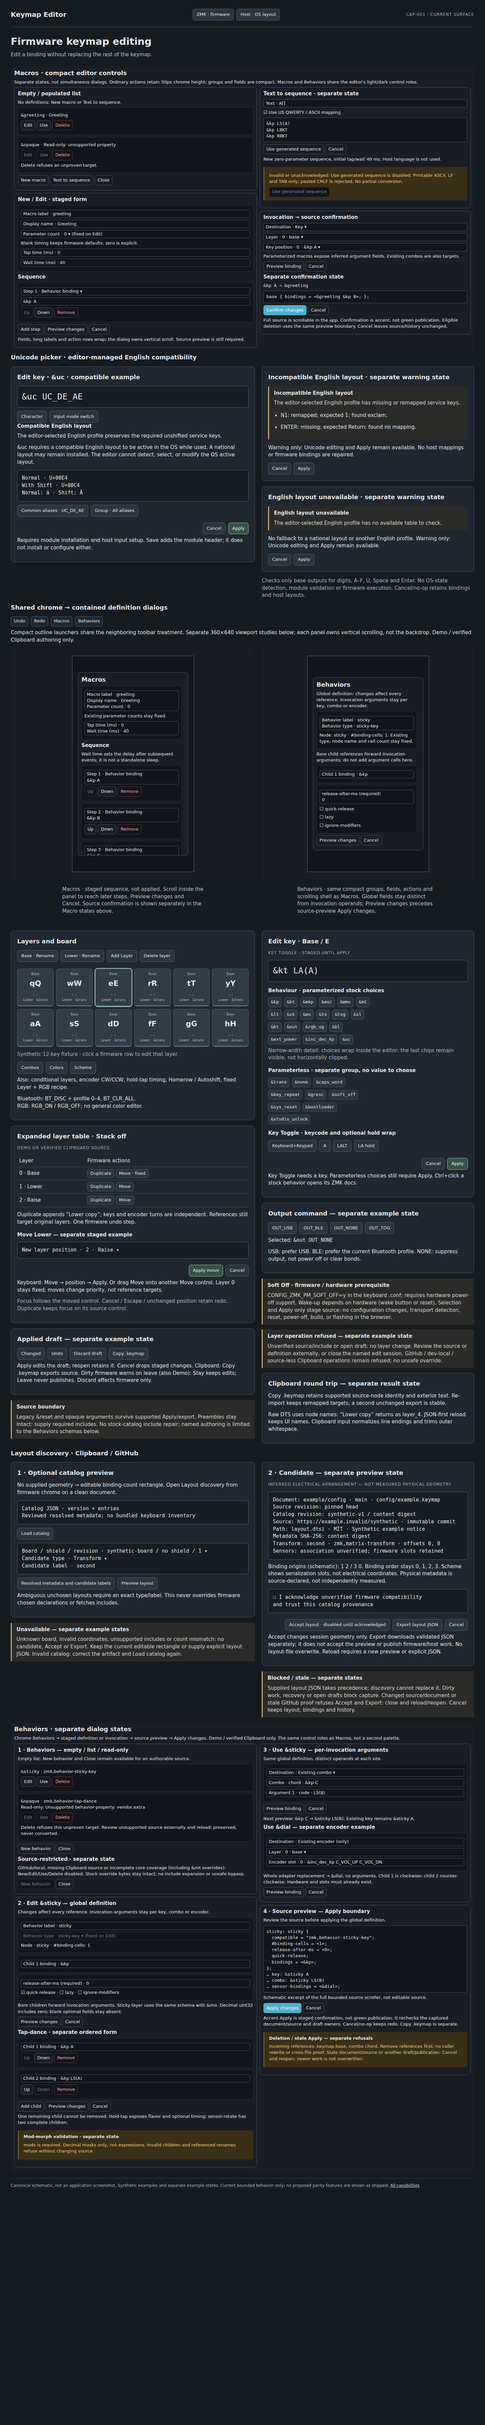
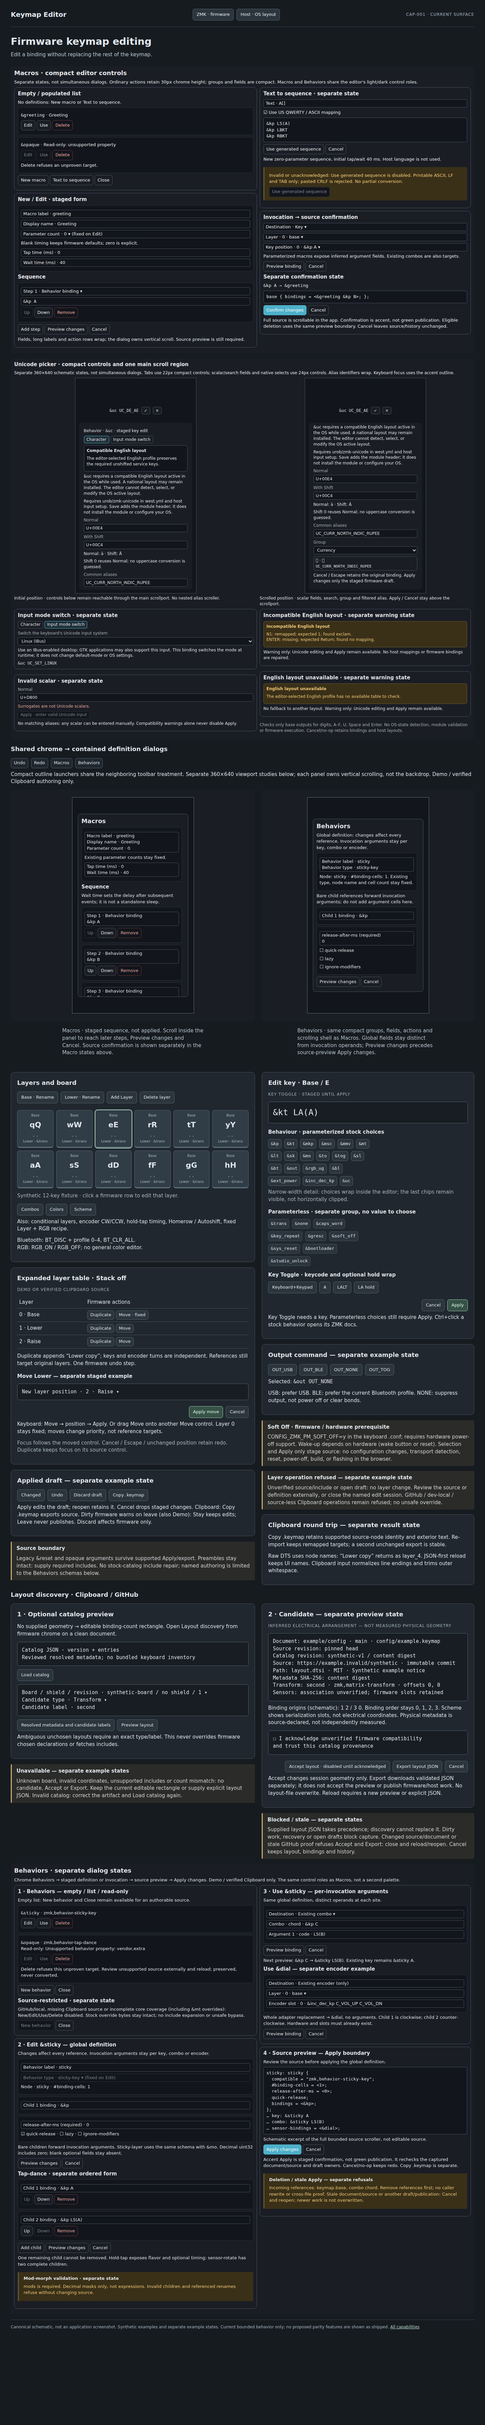
Align Unicode picker controls with the compact editor design.

diff --git a/docs/product/wireframes/html/CAP-001-firmware-keymap-editing.html b/docs/product/wireframes/html/CAP-001-firmware-keymap-editing.html
@@ -18,6 +18,12 @@
 .macro-design h2{font-size:18px;margin:0 0 6px}.macro-design h3{font-size:15px;margin:6px 0}.macro-design p{margin:6px 0;overflow-wrap:anywhere}.macro-design .columns{gap:8px}.macro-design .card{background:var(--surface);border:1px solid var(--border);padding:8px 10px;margin-bottom:8px}.macro-design .card h2{font-size:15px}.macro-design .macro-group{padding:7px 8px;border:1px solid var(--border-subtle);border-radius:6px;background:var(--surface-sunken);margin:6px 0}.macro-design .field,.macro-design pre{font:inherit;color:var(--text);background:var(--surface-sunken);border:1px solid var(--border);border-radius:4px;padding:2px 6px;margin:6px 0;overflow-wrap:anywhere;white-space:pre-wrap}.macro-design pre{font-family:monospace;padding:8px}.macro-design .actions{justify-content:flex-start;gap:4px;margin:6px 0}.macro-action{display:inline-flex;align-items:center;min-height:30px;padding:0 8px;border:1px solid var(--border);border-radius:6px;color:var(--text);background:var(--surface);font-size:13px}.macro-action.accent{background:var(--accent);color:var(--on-accent);border-color:var(--accent)}.macro-action.danger{color:var(--danger-ink);border-color:var(--danger-border);background:transparent;font-weight:500}.macro-action.disabled{color:var(--text-disabled);border-color:var(--border-subtle);background:var(--surface-sunken)}.macro-design .notice{background:var(--warn-wash);border-color:var(--warn-border)}.macro-design .notice p{color:var(--warn-ink)}
 .macro-design .field.disabled{color:var(--text-disabled);border-color:var(--border-subtle)}
 @media(max-width:700px){body:has(.macro-design){padding:12px}body:has(.macro-design) .columns{grid-template-columns:minmax(0,1fr)}body:has(.macro-design) header{flex-wrap:wrap;gap:8px}body:has(.macro-design) .viewport-study{max-width:100%}body:has(.macro-design) .definition-panel{max-width:calc(100% - 32px)}body:has(.macro-design) .field{overflow-wrap:anywhere}}
+
+.unicode-study{--text:#333;--text-muted:#666;--text-disabled:#8a8a8a;--on-accent:#fff;--surface:#fff;--surface-sunken:#f3f3f3;--border-subtle:#e2e2e2;--border:#ccc;--accent:#1d6f8a;--warn-ink:#664d03;--warn-wash:#fff3cd;--warn-border:#e6d7a2;--danger-ink:#842029;--danger-border:#e2b6bb;color-scheme:light;font-size:12px;line-height:1.4;color:var(--text);background:var(--surface);padding:8px 10px;margin:16px 0;border-radius:8px}
+@media(prefers-color-scheme:dark){.unicode-study{--text:#e4e6ea;--text-muted:#a8adb8;--text-disabled:#7a8090;--on-accent:#fff;--surface:#1a1d24;--surface-sunken:#12151b;--border-subtle:#2a2f3a;--border:#4a5160;--accent:#4db0c9;--warn-ink:#f0c878;--warn-wash:#3a3018;--warn-border:#6a5a30;--danger-ink:#f0a8a0;--danger-border:#6a3a40;color-scheme:dark}}
+.unicode-study h2{font-size:15px;margin:0 0 6px}.unicode-study p{margin:6px 0;overflow-wrap:anywhere}.unicode-study .muted{color:var(--text-muted)}.unicode-study .columns{gap:8px}.unicode-study .columns>div{min-width:0}.unicode-study .card{padding:8px 10px;background:var(--surface);border-color:var(--border)}
+.unicode-viewport{width:360px;max-width:100%;height:640px;margin:auto;padding:72px 11px 8px;background:var(--surface-sunken);border:1px solid var(--border)}.unicode-preview{display:flex;justify-content:center;align-items:center;gap:8px;min-height:48px;margin-bottom:12px}.unicode-main{max-height:496px;overflow-y:auto;padding:10px 14px 12px;background:var(--surface);border-radius:8px}.unicode-tabs{display:flex;gap:4px;flex-wrap:wrap;margin:6px 0}.unicode-study button{font:inherit;min-height:22px;padding:1px 7px;color:var(--text);background:var(--surface);border:1px solid var(--border);border-radius:4px;overflow-wrap:anywhere}.unicode-study button[aria-pressed=true]{border-color:var(--accent);background:color-mix(in srgb,var(--accent) 12%,var(--surface))}.unicode-study :focus-visible{outline:2px solid var(--accent);outline-offset:1px}.unicode-study button:disabled{color:var(--text-disabled);background:var(--surface-sunken);border-color:var(--border-subtle)}
+.unicode-fields{display:flex;flex-wrap:wrap;gap:6px}.unicode-study label{display:grid;gap:3px;flex:1 1 160px;min-width:0;color:var(--text-muted)}.unicode-study input,.unicode-study select{box-sizing:border-box;width:100%;min-width:0;height:24px;font:inherit;color:var(--text);background:var(--surface-sunken);border:1px solid var(--border);border-radius:4px;padding:0 6px}.unicode-study .unicode-alias{display:grid;gap:2px;padding:3px 6px;text-align:left;width:100%;margin-top:6px}.unicode-alias code{font-size:11px;overflow-wrap:anywhere}.unicode-status{padding:7px 8px;background:var(--surface-sunken);border:1px solid var(--border);border-radius:6px}.unicode-status.warning{color:var(--warn-ink);background:var(--warn-wash);border-color:var(--warn-border)}.unicode-error{color:var(--danger-ink)}
 </style></head><body><header><strong>Keymap Editor</strong><div class="chips"><span class="chip">ZMK · firmware</span><span class="chip">Host · OS layout</span></div><span class="eyebrow">CAP-001 · current surface</span></header><main><h1>Firmware keymap editing</h1><p class="intro">Edit a binding without replacing the rest of the keymap.</p><section class="macro-design" aria-label="Macro editor design states">
 <h2>Macros · compact editor controls</h2>
 <p>Separate states, not simultaneous dialogs. Ordinary actions retain 30px chrome height; groups and fields are compact. Macros and Behaviors share the editor's light/dark control roles.</p>
@@ -29,15 +35,23 @@
 &amp;kp LBKT
 &amp;kp RBKT</pre><div class="actions"><span class="macro-action outline">Use generated sequence</span><span class="macro-action outline">Cancel</span></div><p>New zero-parameter sequence, initial tap/wait 40 ms. Host language is not used.</p><div class="notice"><p>Invalid or unacknowledged: Use generated sequence is disabled. Printable ASCII, LF and TAB only; pasted CRLF is rejected. No partial conversion.</p><span class="macro-action outline disabled">Use generated sequence</span></div></section>
 <section class="card"><h2>Invocation → source confirmation</h2><div class="field">Destination · Key ▾</div><div class="field">Layer · 0 · base ▾</div><div class="field">Key position · 0 · &amp;kp A ▾</div><p>Parameterized macros expose inferred argument fields. Existing combos are also targets.</p><div class="actions"><span class="macro-action outline">Preview binding</span><span class="macro-action outline">Cancel</span></div><h3>Separate confirmation state</h3><p><code>&amp;kp A → &amp;greeting</code></p><pre>base { bindings = &lt;&amp;greeting &amp;kp B&gt;; };</pre><div class="actions"><span class="macro-action accent">Confirm changes</span><span class="macro-action outline">Cancel</span></div><p>Full source is scrollable in the app. Confirmation is accent, not green publication. Eligible deletion uses the same preview boundary. Cancel leaves source/history unchanged.</p></section>
-</div></div></section><section aria-label="Unicode picker compatibility examples">
-<h2>Unicode picker · editor-managed English compatibility</h2>
+</div></div></section><section class="unicode-study" aria-label="Unicode picker controls and compatibility examples">
+<h2>Unicode picker · compact controls and one main scroll region</h2>
+<p>Separate 360×640 schematic states, not simultaneous dialogs. Tabs use 22px compact controls; scalar/search fields and native selects use 24px controls. Alias identifiers wrap. Keyboard focus uses the accent outline.</p>
 <div class="columns"><div>
-<section class="card"><h2>Edit key · &amp;uc · compatible example</h2><div class="binding">&amp;uc UC_DE_AE</div><div class="chips"><span class="chip">Character</span><span class="chip">Input mode switch</span></div><div role="status" aria-label="Unicode host-layout compatibility"><strong>Compatible English layout</strong><p>The editor-selected English profile preserves the required unshifted service keys.</p></div><p>&amp;uc requires a compatible English layout to be active in the OS while used. A national layout may remain installed. The editor cannot detect, select, or modify the OS active layout.</p><div class="field">Normal · U+00E4<br>With Shift · U+00C4<br>Normal: ä · Shift: Ä</div><div class="chips"><span class="chip">Common aliases · UC_DE_AE</span><span class="chip">Group · All aliases</span></div><div class="actions"><span class="chip">Cancel</span><span class="chip selected">Apply</span></div><p>Requires module installation and host input setup. Save adds the module header; it does not install or configure either.</p></section>
+<div class="unicode-viewport" aria-label="360 by 640 Unicode picker initial"><div class="unicode-preview"><code>&amp;uc UC_DE_AE</code><button type="button" aria-label="Apply">✓</button><button type="button" aria-label="Cancel">×</button></div><div class="unicode-main"><p>Behavior · <code>&amp;uc</code> · staged key edit</p><div class="unicode-tabs"><button type="button" aria-pressed="true">Character</button><button type="button" aria-pressed="false">Input mode switch</button></div><div class="unicode-status" role="status"><strong>Compatible English layout</strong><p>The editor-selected English profile preserves the required unshifted service keys.</p></div><p>&amp;uc requires a compatible English layout active in the OS while used. A national layout may remain installed. The editor cannot detect, select, or modify the OS active layout.</p><p>Requires urob/zmk-unicode in west.yml and host input setup. Save adds the module header; it does not install the module or configure your OS.</p><div class="unicode-fields"><label>Normal<input value="U+00E4" aria-label="Normal Unicode character or code point"></label><label>With Shift<input value="U+00C4" aria-label="Shift Unicode character or code point"></label></div><p>Normal: ä · Shift: Ä</p><p>Shift 0 reuses Normal; no uppercase conversion is guessed.</p><div class="unicode-fields"><label>Common aliases<input type="search" value="UC_CURR_NORTH_INDIC_RUPEE" aria-label="Filter Unicode aliases"></label><label>Group<select aria-label="Unicode alias group"><option>Currency</option></select></label></div><button type="button" class="unicode-alias"><span>꠸ · ꠸</span><code>UC_CURR_NORTH_INDIC_RUPEE</code></button><p>Cancel / Escape retains the original binding. Apply changes only the staged firmware draft.</p></div></div>
+<p>Initial position · controls below remain reachable through the main scrollport. No nested alias scroller.</p>
 </div><div>
-<section class="card"><h2>Incompatible English layout · separate warning state</h2><div class="notice" role="status" aria-label="Unicode host-layout compatibility"><strong>Incompatible English layout</strong><p>The editor-selected English profile has missing or remapped service keys.</p><ul><li>N1: remapped; expected 1; found exclam.</li><li>ENTER: missing; expected Return; found no mapping.</li></ul></div><p>Warning only: Unicode editing and Apply remain available. No host mappings or firmware bindings are repaired.</p><div class="chips"><span class="chip">Cancel</span><span class="chip">Apply</span></div></section>
-<section class="card"><h2>English layout unavailable · separate warning state</h2><div class="notice" role="status" aria-label="Unicode host-layout compatibility"><strong>English layout unavailable</strong><p>The editor-selected English profile has no available table to check.</p></div><p>No fallback to a national layout or another English profile. Warning only: Unicode editing and Apply remain available.</p><div class="chips"><span class="chip">Cancel</span><span class="chip">Apply</span></div></section>
+<div class="unicode-viewport" aria-label="360 by 640 Unicode picker scrolled"><div class="unicode-preview"><code>&amp;uc UC_DE_AE</code><button type="button" aria-label="Apply">✓</button><button type="button" aria-label="Cancel">×</button></div><div class="unicode-main" data-unicode-scroll-bottom><p>Behavior · <code>&amp;uc</code> · staged key edit</p><div class="unicode-tabs"><button type="button" aria-pressed="true">Character</button><button type="button" aria-pressed="false">Input mode switch</button></div><div class="unicode-status" role="status"><strong>Compatible English layout</strong><p>The editor-selected English profile preserves the required unshifted service keys.</p></div><p>&amp;uc requires a compatible English layout active in the OS while used. A national layout may remain installed. The editor cannot detect, select, or modify the OS active layout.</p><p>Requires urob/zmk-unicode in west.yml and host input setup. Save adds the module header; it does not install the module or configure your OS.</p><div class="unicode-fields"><label>Normal<input value="U+00E4" aria-label="Normal Unicode character or code point"></label><label>With Shift<input value="U+00C4" aria-label="Shift Unicode character or code point"></label></div><p>Normal: ä · Shift: Ä</p><p>Shift 0 reuses Normal; no uppercase conversion is guessed.</p><div class="unicode-fields"><label>Common aliases<input type="search" value="UC_CURR_NORTH_INDIC_RUPEE" aria-label="Filter Unicode aliases"></label><label>Group<select aria-label="Unicode alias group"><option>Currency</option></select></label></div><button type="button" class="unicode-alias"><span>꠸ · ꠸</span><code>UC_CURR_NORTH_INDIC_RUPEE</code></button><p>Cancel / Escape retains the original binding. Apply changes only the staged firmware draft.</p></div></div>
+<p>Scrolled position · scalar fields, search, group and filtered alias. Apply / Cancel stay above the scrollport.</p>
+</div></div><div class="columns"><div>
+<section class="card"><h2>Input mode switch · separate state</h2><div class="unicode-tabs"><button type="button" aria-pressed="false">Character</button><button type="button" aria-pressed="true">Input mode switch</button></div><label>Switch the keyboard's Unicode input system<select aria-label="Unicode input mode"><option>Linux (IBus)</option></select></label><p>Use an IBus-enabled desktop; GTK applications may also support this input. This binding switches the mode at runtime; it does not change default-mode or OS settings.</p><code>&amp;uc UC_SET_LINUX</code></section>
+<section class="card"><h2>Invalid scalar · separate state</h2><label>Normal<input value="U+D800" aria-label="Invalid normal Unicode scalar"></label><p class="unicode-error">Surrogates are not Unicode scalars.</p><button type="button" disabled>Apply · enter valid Unicode input</button><p>No matching aliases: any scalar can be entered manually. Compatibility warnings alone never disable Apply.</p></section>
+</div><div>
+<section class="card"><h2>Incompatible English layout · separate warning state</h2><div class="unicode-status warning" role="status"><strong>Incompatible English layout</strong><p>N1: remapped; expected 1; found exclam.<br>ENTER: missing; expected Return; found no mapping.</p></div><p>Warning only: Unicode editing and Apply remain available. No host mappings or firmware bindings are repaired.</p></section>
+<section class="card"><h2>English layout unavailable · separate warning state</h2><div class="unicode-status warning" role="status"><strong>English layout unavailable</strong><p>The editor-selected English profile has no available table to check.</p></div><p>No fallback to another layout. Warning only: Unicode editing and Apply remain available.</p></section>
 <p class="muted">Checks only base outputs for digits, A–F, U, Space and Enter. No OS-state detection, module validation or firmware execution. Cancel/no-op retains bindings and host layouts.</p>
-</div></div></section><section class="definition-shells">
+</div></div></section><script>document.fonts.ready.then(() => document.querySelectorAll('[data-unicode-scroll-bottom]').forEach(port => { port.scrollTop = port.scrollHeight }))</script><section class="definition-shells">
 <h2>Shared chrome → contained definition dialogs</h2>
 <div class="firmware-chrome" aria-label="Firmware chrome"><div class="chips"><span class="chip">Undo</span><span class="chip">Redo</span><span class="chip">Macros</span><span class="chip">Behaviors</span></div></div>
 <p>Compact outline launchers share the neighboring toolbar treatment. Separate 360×640 viewport studies below; each panel owns vertical scrolling, not the backdrop. Demo / verified Clipboard authoring only.</p>

diff --git a/e2e/unicode-picker.spec.ts b/e2e/unicode-picker.spec.ts
@@ -1,4 +1,4 @@
-import { expect, test, type Page } from '@playwright/test'
+import { expect, test, type Locator, type Page } from '@playwright/test'
 
 import { openSource, skipCoachAndOpenEditor } from './helpers'
 
@@ -85,8 +85,206 @@ test('Unicode picker Cancel does not replace the original binding', async ({ pag
   expect(text).not.toContain('behaviors/unicode.dtsi')
 })
 
+// Inspect before focus/click can auto-scroll. Only the main dialog scrollport
+// may expose an offscreen picker control; hidden overflow is not reachability.
+async function expectPickerReachable(control: Locator) {
+  const measure = () => control.evaluate(element => {
+    const main = element.closest('.key-editor-main') as HTMLElement
+    const rect = element.getBoundingClientRect()
+    const port = main.getBoundingClientRect()
+    const inside = (a: DOMRect, b: DOMRect) =>
+      b.left >= a.left - 0.5 && b.right <= a.right + 0.5 &&
+      b.top >= a.top - 0.5 && b.bottom <= a.bottom + 0.5
+    const viewport = new DOMRect(0, 0, innerWidth, innerHeight)
+    const text: DOMRect[] = []
+    // Native input/select text is painted by Chromium, not descendant text nodes.
+    if (element.tagName !== 'SELECT') {
+      const walker = document.createTreeWalker(element, NodeFilter.SHOW_TEXT)
+      for (let node = walker.nextNode(); node; node = walker.nextNode()) {
+        if (!node.textContent?.trim()) continue
+        const range = document.createRange()
+        range.selectNodeContents(node)
+        text.push(...range.getClientRects())
+      }
+    }
+    const issues: string[] = []
+    for (let parent = element.parentElement; parent; parent = parent.parentElement) {
+      const style = getComputedStyle(parent)
+      const bounds = parent.getBoundingClientRect()
+      for (const box of [rect, ...text]) {
+        if (/hidden|clip|auto|scroll/.test(style.overflowX) &&
+          (box.left < bounds.left - 0.5 || box.right > bounds.right + 0.5)) issues.push('clipped x')
+        if (/hidden|clip|auto|scroll/.test(style.overflowY) &&
+          (box.top < bounds.top - 0.5 || box.bottom > bounds.bottom + 0.5)) issues.push('clipped y')
+      }
+    }
+    return {
+      name: element.getAttribute('aria-label') || element.textContent,
+      ownerContained: inside(viewport, port),
+      ownerScrollable: /auto|scroll/.test(getComputedStyle(main).overflowY),
+      horizontalFit: rect.left >= port.left && rect.right <= port.right && main.scrollWidth <= main.clientWidth,
+      textFits: text.every(box => inside(rect, box)),
+      exposed: inside(viewport, rect) && text.every(box => inside(viewport, box)) && issues.length === 0,
+      // Wrapped inline links have separate fragments; their union's center can
+      // be empty paragraph space. Every actual fragment must remain clickable.
+      hit: Array.from(element.getClientRects()).every(fragment =>
+        element.contains(document.elementFromPoint(fragment.x + fragment.width / 2, fragment.y + fragment.height / 2)))
+    }
+  })
+  const before = await measure()
+  expect(before.ownerContained, 'main scrollport must fit the viewport').toBe(true)
+  expect(before.ownerScrollable).toBe(true)
+  expect(before.horizontalFit, 'no horizontal cropping').toBe(true)
+  expect(before.textFits, 'alias text must wrap inside its button').toBe(true)
+  await control.evaluate(element => element.scrollIntoView({ block: 'nearest', behavior: 'instant' }))
+  const after = await measure()
+  expect(after.exposed, 'full control and text must escape every clipping ancestor').toBe(true)
+  expect(after.hit, `exposed control must be hit-testable: ${JSON.stringify(after)}`).toBe(true)
+}
+
+async function expectCompactControl(control: Locator, role: 'tab' | 'field' | 'alias', state = 'rest') {
+  const style = await control.evaluate((element, { role, state }) => {
+    const actual = getComputedStyle(element)
+    const probe = document.createElement('span')
+    element.parentElement!.appendChild(probe)
+    probe.style.color = state === 'hover' ? 'var(--accent)' : 'var(--text)'
+    probe.style.background = role === 'field' ? 'var(--surface-sunken)'
+      : state === 'pressed' ? 'color-mix(in srgb, var(--accent) 12%, var(--surface))' : 'var(--surface)'
+    probe.style.borderColor = state === 'pressed' || state === 'hover' ? 'var(--accent)' : 'var(--border)'
+    probe.style.outlineColor = 'var(--accent)'
+    const expected = getComputedStyle(probe)
+    const result = {
+      font: actual.fontSize, family: actual.fontFamily, appFamily: getComputedStyle(document.documentElement).fontFamily,
+      height: element.getBoundingClientRect().height, color: actual.color, expectedColor: expected.color,
+      background: actual.backgroundColor, expectedBackground: expected.backgroundColor,
+      border: actual.borderTopColor, expectedBorder: expected.borderTopColor, borderWidth: actual.borderTopWidth,
+      outline: actual.outlineColor, expectedOutline: expected.outlineColor,
+      outlineWidth: actual.outlineWidth, outlineStyle: actual.outlineStyle, outlineOffset: actual.outlineOffset,
+      focusVisible: element.matches(':focus-visible')
+    }
+    probe.remove()
+    return result
+  }, { role, state })
+  expect(style.font).toBe('12px')
+  expect(style.family).toBe(style.appFamily)
+  expect(style.height).toBeGreaterThanOrEqual(role === 'field' ? 24 : 22)
+  expect(style.height).toBeLessThanOrEqual(role === 'alias' ? 48 : role === 'field' ? 24 : 22)
+  expect(style.borderWidth).toBe('1px')
+  expect(style.border).toBe(style.expectedBorder)
+  expect(style.background).toBe(style.expectedBackground)
+  expect(style.color).toBe(style.expectedColor)
+  if (state === 'focus') {
+    expect(style.focusVisible).toBe(true)
+    expect(style.outline).toBe(style.expectedOutline)
+    expect(style.outlineWidth).toBe('2px')
+    expect(style.outlineStyle).toBe('solid')
+    expect(style.outlineOffset).toBe('1px')
+  }
+}
+
 for (const theme of ['light', 'dark'] as const) {
   for (const viewport of [{ width: 1280, height: 720 }, { width: 360, height: 640 }]) {
+    test(`Unicode compact controls in ${theme} at ${viewport.width}x${viewport.height}`, async ({ page }, testInfo) => {
+      await page.setViewportSize(viewport)
+      if (theme === 'light') await page.getByRole('button', { name: 'Color theme: Dark' }).click()
+      const dialog = await editUnicode(page)
+      await page.evaluate(() => document.fonts.ready)
+      const picker = dialog.getByRole('region', { name: 'Unicode picker', exact: true })
+      const character = picker.getByRole('button', { name: 'Character', exact: true })
+      const modeTab = picker.getByRole('button', { name: 'Input mode switch', exact: true })
+      const normal = picker.getByRole('textbox', { name: 'Normal Unicode character or code point' })
+      const shift = picker.getByRole('textbox', { name: 'Shift Unicode character or code point' })
+      const search = picker.getByRole('searchbox', { name: 'Filter Unicode aliases' })
+      const group = picker.getByRole('combobox', { name: 'Unicode alias group' })
+      await page.mouse.move(0, 0)
+      await expect(character).toHaveAttribute('aria-pressed', 'true')
+      await expectCompactControl(character, 'tab', 'pressed')
+      await expectCompactControl(modeTab, 'tab')
+      for (const field of [normal, shift, search, group]) await expectCompactControl(field, 'field')
+      await modeTab.hover()
+      await expectCompactControl(modeTab, 'tab', 'hover')
+      await page.mouse.move(0, 0)
+      await character.focus()
+      await page.keyboard.press('Tab')
+      await expect(modeTab).toBeFocused()
+      await expectCompactControl(modeTab, 'tab', 'focus')
+      await page.screenshot({ path: testInfo.outputPath('compact-tabs-focus.png') })
+      await page.keyboard.press('Tab') // setup instructions link
+      await page.keyboard.press('Tab')
+      await expect(normal).toBeFocused()
+      await expectCompactControl(normal, 'field', 'focus')
+      await normal.fill('U+D800')
+      const disabled = dialog.getByRole('button', { name: 'Enter valid Unicode input' })
+      await expect(disabled).toBeDisabled()
+      expect(await disabled.evaluate(element => Number(getComputedStyle(element).opacity))).toBeLessThan(1)
+      await expect(dialog.getByRole('alert')).toContainText('surrogates')
+      await expectPickerReachable(dialog.getByRole('alert'))
+      await page.screenshot({ path: testInfo.outputPath('compact-invalid.png') })
+      await normal.fill('ä')
+      await shift.fill('Ä')
+      await search.fill('UC_CURR_NORTH_INDIC_RUPEE')
+      await group.selectOption('Currency')
+      const alias = picker.locator('[data-unicode-alias="UC_CURR_NORTH_INDIC_RUPEE"]')
+      await expectPickerReachable(alias)
+      await expectCompactControl(alias, 'alias')
+      await alias.hover()
+      await expectCompactControl(alias, 'alias', 'hover')
+      await page.mouse.move(0, 0)
+      await group.focus()
+      await expectCompactControl(group, 'field', 'focus')
+      await page.keyboard.press('Tab')
+      await expect(alias).toBeFocused()
+      await expectCompactControl(alias, 'alias', 'focus')
+      await page.screenshot({ path: testInfo.outputPath('compact-filtered-alias-focus.png') })
+      await page.keyboard.press('Space')
+      await expect(dialog.locator('.binding')).toHaveText('&uc UC_CURR_NORTH_INDIC_RUPEE')
+      await search.fill('no-such-unicode-alias')
+      await expectPickerReachable(picker.getByText('No matching aliases. Any scalar can be entered above.'))
+      await modeTab.focus()
+      await page.keyboard.press('Space')
+      await expect(modeTab).toHaveAttribute('aria-pressed', 'true')
+      await expect(character).toHaveAttribute('aria-pressed', 'false')
+      await page.mouse.move(0, 0)
+      await expectCompactControl(modeTab, 'tab', 'pressed')
+      const mode = picker.getByRole('combobox', { name: 'Unicode input mode' })
+      await expectPickerReachable(mode)
+      await expectCompactControl(mode, 'field')
+      await page.keyboard.press('Tab')
+      await page.keyboard.press('Tab')
+      await expect(mode).toBeFocused()
+      await expectCompactControl(mode, 'field', 'focus')
+      await mode.selectOption('UC_SET_LINUX')
+      await expect(dialog.locator('.binding')).toHaveText('&uc UC_SET_LINUX')
+      await page.screenshot({ path: testInfo.outputPath('compact-mode-focus.png') })
+      await page.keyboard.press('Tab')
+      await expect(dialog.getByRole('button', { name: 'Apply', exact: true })).toBeFocused()
+      await page.keyboard.press('Escape')
+      await expect(dialog).toBeHidden()
+      await expect(page.getByRole('button', { name: '&kp A, layer 0', exact: true })).toBeFocused()
+    })
+
+    test(`Unicode single-scroll reachability in ${theme} at ${viewport.width}x${viewport.height}`, async ({ page }, testInfo) => {
+      await page.setViewportSize(viewport)
+      if (theme === 'light') await page.getByRole('button', { name: 'Color theme: Dark' }).click()
+      const dialog = await editUnicode(page)
+      const picker = dialog.getByRole('region', { name: 'Unicode picker', exact: true })
+      await page.evaluate(() => document.fonts.ready)
+      const shell = await dialog.locator('.modal-content').boundingBox()
+      expect(shell!.y + shell!.height, 'modal bottom must remain inside viewport').toBeLessThanOrEqual(viewport.height)
+      expect(await picker.evaluate(element => Array.from(element.querySelectorAll('*')).filter(child => {
+        const style = getComputedStyle(child)
+        return /auto|scroll/.test(style.overflowY) && child.scrollHeight > child.clientHeight
+      }).length), 'picker must not introduce a second vertical scroll owner').toBe(0)
+      const controls = picker.locator('button, input, select, a')
+      expect(await controls.count()).toBeGreaterThan(100) // unfiltered catalog, not just the visible rows
+      for (const control of await controls.all()) await expectPickerReachable(control)
+      await page.screenshot({ path: testInfo.outputPath('compact-aliases-end.png') })
+      await picker.getByRole('button', { name: 'Input mode switch', exact: true }).click()
+      await expectPickerReachable(picker.getByRole('combobox', { name: 'Unicode input mode' }))
+      await dialog.getByRole('button', { name: 'Cancel', exact: true }).click()
+      await expect(page.getByRole('button', { name: '&kp A, layer 0', exact: true })).toBeFocused()
+    })
+
     test(`Unicode compatibility states remain readable in ${theme} at ${viewport.width}x${viewport.height}`, async ({ page }, testInfo) => {
       await page.setViewportSize(viewport)
       if (theme === 'light') await page.getByRole('button', { name: 'Color theme: Dark' }).click()

diff --git a/apps/web/src/lib/components/KeyEditor/UnicodePicker.svelte b/apps/web/src/lib/components/KeyEditor/UnicodePicker.svelte
@@ -138,19 +138,72 @@
 </section>
 
 <style>
-  .unicode-picker { display: grid; gap: 0.7rem; }
+  .unicode-picker {
+    display: grid;
+    flex: none;
+    min-width: 0;
+    gap: 6px;
+    color: var(--text);
+    font-size: var(--font-sm);
+    line-height: 1.35;
+  }
   .unicode-compatibility { display: grid; gap: 6px; min-width: 0; padding: 7px 8px; border: 1px solid var(--border); border-radius: 6px; background: var(--surface-sunken); color: var(--text); font-size: var(--font-sm); overflow-wrap: anywhere; }
   .unicode-compatibility p, .unicode-compatibility ul { margin: 0; }
   .unicode-compatibility ul { padding-left: 1.4em; }
   .unicode-warning { color: var(--warn-ink); background: var(--warn-wash); border-color: var(--warn-border); }
-  .unicode-tabs, .unicode-fields { display: flex; gap: 0.7rem; flex-wrap: wrap; }
-  label { display: grid; gap: 0.3rem; flex: 1; min-width: 10rem; }
-  input, select, button { font: inherit; color: inherit; background: var(--fill-subtle); border: 1px solid var(--border); border-radius: 0.4rem; padding: 0.4rem 0.6rem; }
-  button { cursor: pointer; }
-  button[aria-pressed="true"] { outline: 2px solid var(--accent); }
-  .unicode-note { font-size: 0.85rem; opacity: 0.85; margin: 0; }
-  .unicode-aliases { display: grid; grid-template-columns: repeat(auto-fill, minmax(10rem, 1fr)); gap: 0.4rem; max-height: 14rem; overflow: auto; }
-  .unicode-aliases button { display: grid; gap: 0.3rem; text-align: left; }
-  .unicode-aliases code { font-size: 0.75rem; overflow-wrap: anywhere; }
-  [role="alert"] { color: var(--danger); margin: 0; }
+  .unicode-tabs, .unicode-fields { display: flex; gap: 6px; flex-wrap: wrap; }
+  .unicode-tabs { gap: 4px; }
+  .unicode-picker label { display: grid; gap: 3px; flex: 1 1 10rem; min-width: 0; color: var(--text-muted); }
+
+  /* Opt in locally; override the app's ordinary 30px select chrome. */
+  .unicode-picker input,
+  :global(#app-root) .unicode-picker select {
+    box-sizing: border-box;
+    width: 100%;
+    min-width: 0;
+    height: 24px;
+    min-height: 24px;
+    padding: 0 6px;
+    font: inherit;
+    color: var(--text);
+    background: var(--surface-sunken);
+    border: 1px solid var(--border);
+    border-radius: 4px;
+  }
+
+  .unicode-tabs button, .unicode-aliases button {
+    box-sizing: border-box;
+    min-width: 0;
+    min-height: 22px;
+    padding: 2px 7px;
+    font: inherit;
+    line-height: 1.2;
+    color: var(--text);
+    background: var(--surface);
+    border: 1px solid var(--border);
+    border-radius: 4px;
+    cursor: pointer;
+    overflow-wrap: anywhere;
+  }
+  .unicode-tabs button[aria-pressed="true"] {
+    border-color: var(--accent);
+    background: color-mix(in srgb, var(--accent) 12%, var(--surface));
+  }
+  .unicode-tabs button:hover, .unicode-aliases button:hover {
+    border-color: var(--accent);
+    color: var(--accent);
+  }
+  .unicode-picker input:focus-visible,
+  :global(#app-root) .unicode-picker select:focus,
+  .unicode-tabs button:focus-visible, .unicode-aliases button:focus-visible {
+    outline: 2px solid var(--accent);
+    outline-offset: 1px;
+  }
+  .unicode-note { color: var(--text-muted); margin: 0; overflow-wrap: anywhere; }
+  /* KeyEditor main owns vertical scrolling, including the unfiltered catalog. */
+  .unicode-aliases { display: grid; grid-template-columns: repeat(auto-fill, minmax(min(100%, 10rem), 1fr)); gap: 4px; }
+  .unicode-aliases button { display: grid; gap: 1px; padding: 2px 6px; text-align: left; }
+  .unicode-aliases code { font-size: var(--font-xs); line-height: 1.2; overflow-wrap: anywhere; }
+  .unicode-aliases p { margin: 0; color: var(--text-muted); }
+  [role="alert"] { color: var(--danger-ink); margin: 0; overflow-wrap: anywhere; }
 </style>

diff --git a/docs/product/capabilities/CAP-001-firmware-keymap-editing.md b/docs/product/capabilities/CAP-001-firmware-keymap-editing.md
@@ -5,6 +5,7 @@
 
 ## Behaviour
 
+- Unicode Character / Input mode switch controls use 12px inherited UI type and 22px compact tabs; scalar/search fields and native selects use 24px token-themed controls. Pressed tabs use an accent border/wash, tab/alias hover uses accent, and keyboard focus uses a 2px accent outline. Alias glyphs and wrapping 11px code identifiers remain distinct. Fields wrap at narrow width (360×640) in light/dark. At 1280×720 and 360×640 in light/dark, the unfiltered catalog shares the KeyEditor's main vertical scrollport rather than introducing a nested alias scroller; controls and their text are reachable without horizontal cropping. Apply/Cancel stay outside that scrollport. Invalid scalar input retains the visibly disabled Apply action and readable error.
 - The Unicode picker displays a named polite status for the editor-selected English profile: compatible, incompatible with missing/remapped service-key diagnostics, or unavailable when its column/table is absent. It updates when that profile or table changes, independently of national layouts, English-column visibility and cached display glyphs.
 - Unicode compatibility warnings do not block editing or valid Apply. Invalid scalar input still blocks Apply; Cancel retains the original binding, and unchanged Apply preserves alias and opaque tokens. The picker explains that `&uc` requires a compatible English layout active in the OS while used; a national layout may remain installed, but the editor cannot detect, select or modify the OS active layout.
 - GitHub ignores matching named JSON without a `layouts` member and keeps the editable binding-count rectangle when no applicable geometry remains. Present invalid `layouts` or malformed layout JSON block loading; the picker identifies the failed layout file, not the selected `.keymap`. Shared-layout precedence and the stricter Local boundary follow [CAP-002](CAP-002-keymap-sources-and-persistence.md).
@@ -86,7 +87,7 @@
 - `apps/web/src/lib/components/Keyboard/Keys/Key.test.ts` — real key-session propagation through KeyEditorHost/KeyEditor, compatible state, selected-English-only checks with hidden English and independent national tables, registry refresh, missing column/table, warning-only Apply/Cancel and unchanged alias/opaque tokens.
 - `packages/keymap-core/src/unicode-host-layout.test.ts` — service-key compatibility and missing/remapped diagnostics, base versus Shift/AltGr changes, immutable inputs and snapshot/import boundaries.
 - `apps/web/src/lib/editor.host-profiles.test.ts` — KLC-managed rows round-trip without inventing absent Space/Enter table rows or full Unicode compatibility.
-- `e2e/unicode-picker.spec.ts` — visible compatibility states using synthetic editor-managed state, named status semantics, warning token styles and wrapping in light/dark at 1280×720 and 360×640, valid/invalid Apply and keyboard Escape/focus return. Existing browser cases retain Unicode editing, Cancel and source-preserving Copy. These tests do not validate OS active input, module installation or firmware execution.
+- `e2e/unicode-picker.spec.ts` — computed Unicode tab/field/alias typography, dimensions, theme surfaces/borders, pressed/hover/focus treatment, invalid-input disabled Apply, filtered long alias selection, empty search and mode selection. At 1280×720 and 360×640 in light/dark it measures every unfiltered picker control's box/text, verifies main-scroll ownership, viewport exposure and hit-testing, and exercises Tab, Space, Escape and focus return. Separate cases retain synthetic editor-managed compatibility states, named status semantics, warning token styles, Unicode editing, Cancel and source-preserving Copy. This is Chromium evidence, not OS active-input, module-installation, firmware-execution or all-browser certification.
 - `e2e/definition-dialog-layout.spec.ts` — Macro/Behavior panel viewport bounds and internal vertical overflow ownership at 1280×720 and 360×640; parameterized KeyEditor chips occupy multiple rows with no horizontal overflow at 360×640. This is focused layout evidence, not an all-content or all-viewport matrix.
 - `e2e/editor-design-language.spec.ts` — real Chromium computed control fonts, theme-token surfaces/borders, ordinary/destructive/confirmation roles, hover, keyboard focus and native disabled states in light/dark at 1280×720 and 360×640. Covers Macro empty/populated lists, an eight-step parameterized form, invalid timing, fixed arity, typed key invocation/refusal, source and deletion confirmation/cancel, long labels/diagnostics, opaque read-only refusal, and Text to sequence empty/invalid/acknowledged/generated states. Behavior cases add empty/populated lists, variable-length tap-dance child movement/removal, timing validation, fixed type, hold-tap flavor/absent optional timing, sticky-key checkbox and typed key/combo invocation, mod-morph required fields, zero-cell sensor-rotate form/whole-encoder preview, long diagnostics and opaque/stock-override read-only states. Checks panel containment, horizontal fit, long-form scrolling, Tab trap/disabled skipping and Escape/focus return (including cancelling a staged encoder preview); captures runtime screenshots separately from canonical schematics. These are representative forms/states, not exhaustive schema, all-browser or firmware certification.
 - `apps/web/src/lib/components/MacroPanel.test.ts` and `apps/web/src/lib/components/BehaviorPanel.test.ts` — shared outline launcher treatment and preserved accessible dialog names, alongside the bounded transactions described below.

diff --git a/apps/web/AGENTS.md b/apps/web/AGENTS.md
@@ -34,6 +34,8 @@ KeyEditor previews use the session's full encoded draft once a behavior selectio
 
 KeyEditorHost computes Unicode compatibility only from the editor-selected English profile/table, tracking hostLayoutRevision, and passes the core result through KeyEditor to UnicodePicker without mutation. Keep all three accessible states advisory: no national/default fallback, mapping repair, OS-layout detection/switching or compatibility-based Apply block. Preserve scalar validation and staged Cancel/no-op/source contracts.
 
+UnicodePicker owns specialized token-themed 22px tabs, 24px fields/selects and compact wrapping alias choices; do not reuse combo classes or alter ordinary Button sizing. The KeyEditor main scrollport owns the entire picker, including unfiltered aliases; no nested alias scroller or hidden-overflow substitute. Keep Apply/Cancel outside that scrollport.
+
 ## Work Guidance
 
 For every UI change, follow [the editor design language](../../docs/ui-design-language.md): use the shared theme/type roles and ordinary Button primitive, take compact panel hierarchy from Combos, and style internal controls across all affected states rather than only the launcher. Preserve semantic variants and verify computed styles, focus/disabled states and wrapping in both themes with real browser evidence.
@@ -83,6 +85,8 @@ Demo remains source-free after layer operations even when history retains genera
 ## Verification
 
 From repository root: pnpm --filter @keymap-editor/web test; pnpm --filter @keymap-editor/web lint. Use Node 24 LTS for verification; Node 26 currently causes happy-dom storage failures.
+
+`pnpm exec playwright test e2e/unicode-picker.spec.ts` checks compact controls, pressed/hover/keyboard-focus styles, invalid-input disabled Apply, all unfiltered controls' box/text reachability through the main scrollport, filtered aliases and mode selection in light/dark at 1280×720 and 360×640. Preserve the compatibility, staged-edit and source-preserving Copy cases alongside visual checks.
 
 `pnpm exec playwright test e2e/editor-design-language.spec.ts` checks bounded Macro/Behavior control styles, keyboard/disabled states and wrapping in light/dark at 1280×720 and 360×640. Behavior examples cover ordered tap-dance, hold-tap flavor, sticky-key flags/typed invocation, mod-morph required fields, sensor-rotate, opaque diagnostics and source restrictions; this is not exhaustive schema certification.
 

diff --git a/docs/product/wireframes/AGENTS.md b/docs/product/wireframes/AGENTS.md
@@ -20,6 +20,8 @@ Follow [the editor design language](../../ui-design-language.md) for hierarchy, 
 
 CAP-001's Macro and Behavior studies share the generator's existing control/group styles, extract their semantic color roles from `apps/web/src/app.css` during generation and follow `prefers-color-scheme` in standalone HTML. The canonical PNG uses the renderer's dark manifest viewport. Inspect these studies separately in both themes and at desktop/narrow widths; other legacy schematic sections are not an all-surface theme-conformance claim.
 
+CAP-001's Unicode study also extracts app theme roles. Show separate initial/scrolled 360×640 character views with one main scrollport, compact tabs/fields/alias choices, and mode, invalid-scalar and compatibility states. Initialize the scrolled example in generated HTML; inspect the study in both themes and desktop/narrow widths without treating the schematic as runtime proof.
+
 CAP-003's legend detail shows separate initial and scrolled-right narrow states with the same app-derived theme roles. Its table scrolls as a unit; the scrolled example is initialized in generated HTML so the PNG exposes both Alt columns and Choose. Separate English-plus-German profile-menu states show a viewport-bounded vertical scrollport before and after scrolling to the last profile and import actions. Initialize both scroll axes in generated HTML; these schematics do not certify arbitrary profiles or import dialogs.
 
 ## Verification

diff --git a/docs/product/AGENTS.md b/docs/product/AGENTS.md
@@ -20,7 +20,7 @@ Read README.md and ../changes/README.md. The generator is the only screen-defini
 
 CAP-001 owns the bounded Macros and Behaviors dialogs and their canonical firmware-editor schematic. Keep Demo/verified-Clipboard authoring distinct from source preservation, and separate tested UI outcomes from core-only coverage. Behaviors distinguishes global properties, per-invocation operands, existing whole encoder slots and source-preview Apply; stock overrides remain coverage-restricted. CHG-005's full M01–M12 acceptance matrix remains uncertified; its closure does not expand CAP-001's implemented boundary.
 
-CAP-001 also owns Unicode-picker compatibility states. Its canonical schematic shows compatible, incompatible and unavailable editor-selected English tables as separate examples; warnings never imply OS-state detection, layout switching, mapping repair or firmware-runtime certification.
+CAP-001 also owns Unicode-picker compact controls and compatibility states. Its canonical schematic shows narrow initial/scrolled character views, mode/invalid-input states, and compatible, incompatible and unavailable editor-selected English tables as separate examples; warnings never imply OS-state detection, layout switching, mapping repair or firmware-runtime certification.
 
 ## Verification
 
